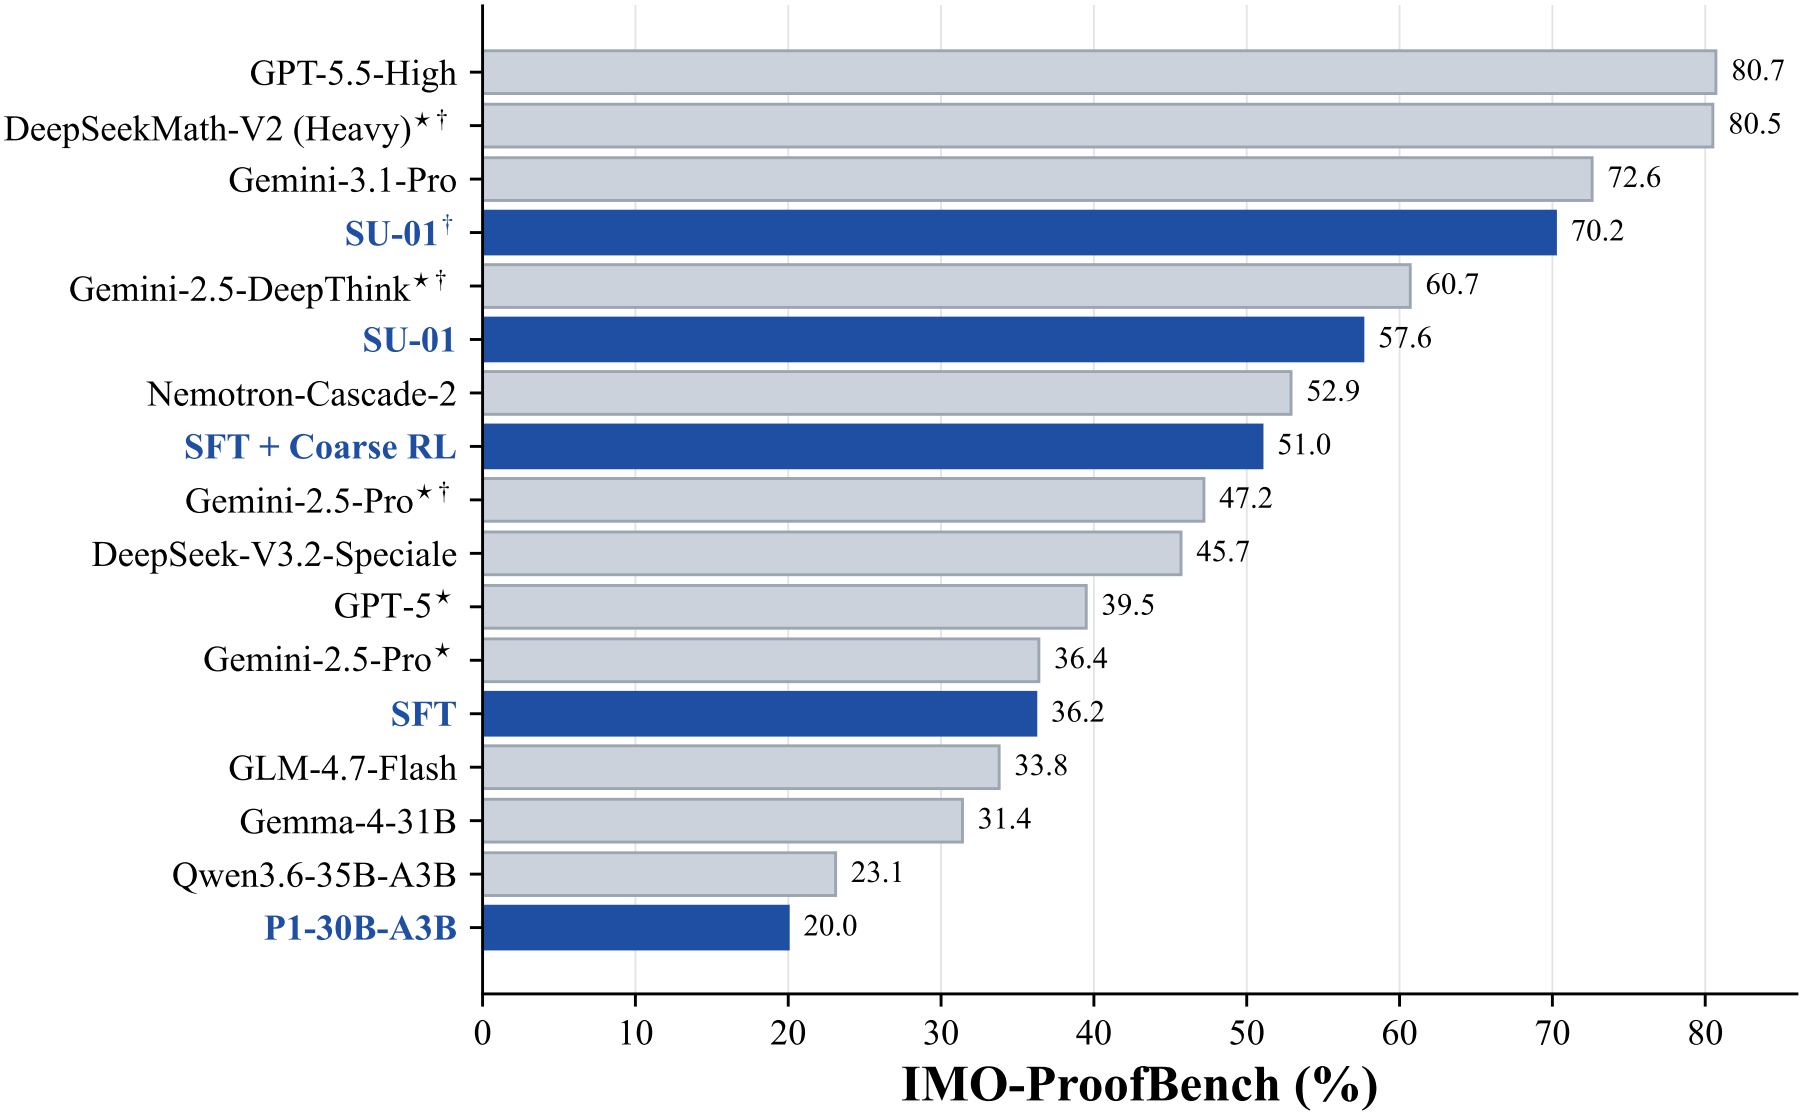
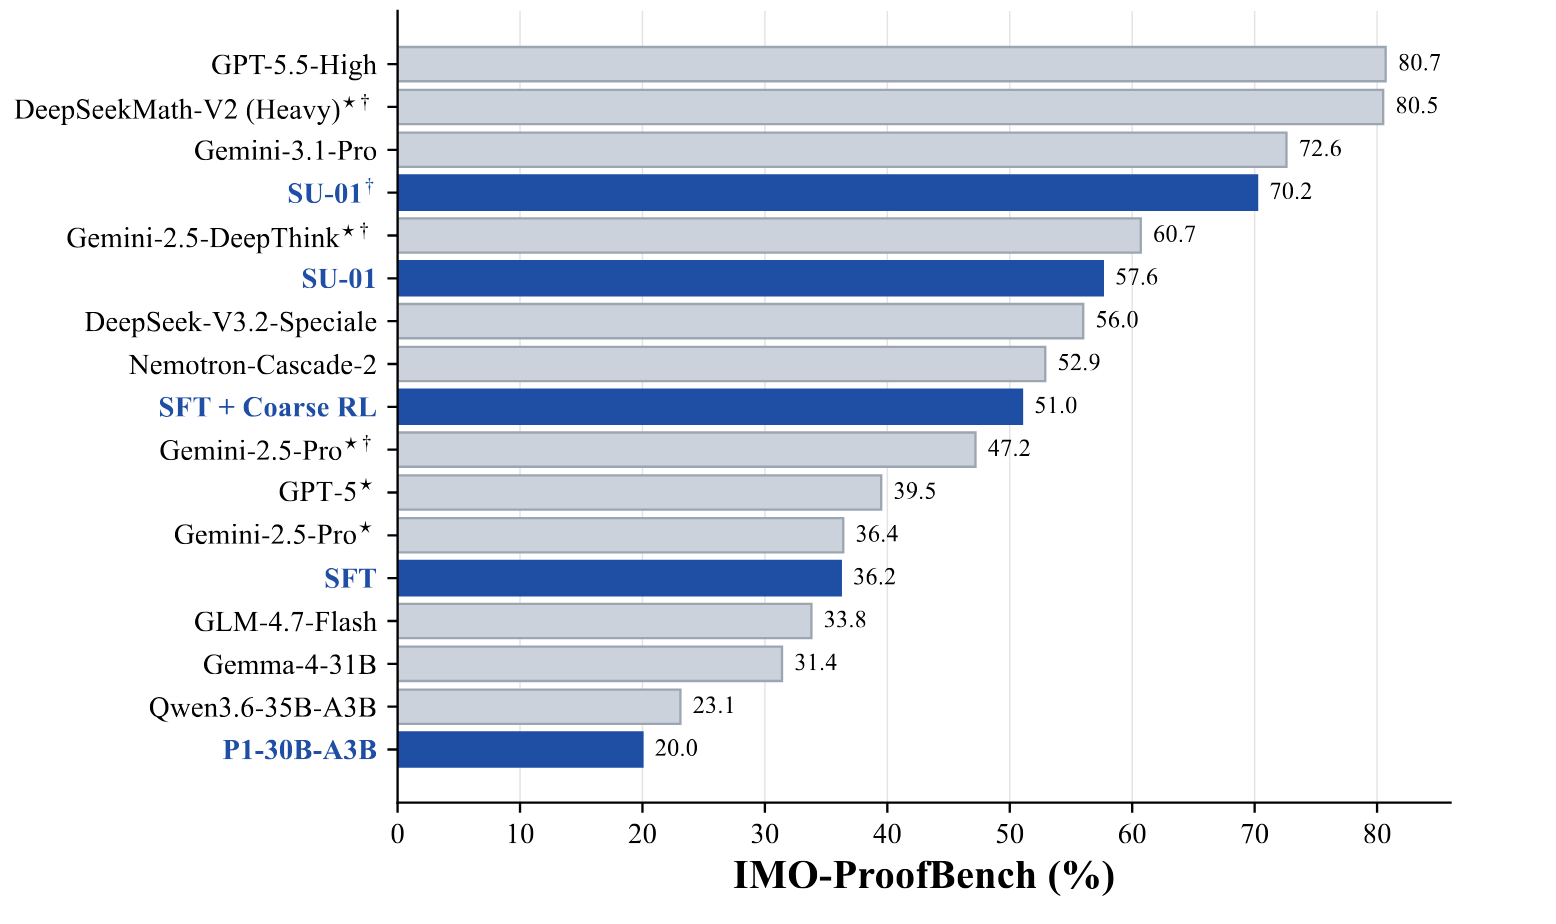
docs: update readme, fix data

Changed region(s): [[0.0, 0.0303, 0.9871, 1.0]]

diff --git a/page/source_html/proofbench.html b/page/source_html/proofbench.html
@@ -118,8 +118,8 @@
       { label: 'SU-01', value: 57.6, medals: 57.6, source: 'open' },
       { label: 'Nemotron-Cascade-2', value: 52.9, medals: 52.9, source: 'open' },
       { label: 'SFT + Coarse RL', value: 51.0, medals: 51.0, source: 'open' },
-      { label: 'Gemini-2.5-Pro', value: 47.1, medals: 47.1, source: 'closed', hasTTS: true },
-      { label: 'DeepSeek-V3.2-Speciale', value: 45.7, medals: 45.7, source: 'open' },
+      { label: 'Gemini-2.5-Pro', value: 47.2, medals: 47.1, source: 'closed', hasTTS: true },
+      { label: 'DeepSeek-V3.2-Speciale', value: 56.0, medals: 45.7, source: 'open' },
       { label: 'GPT-5', value: 39.5, medals: 39.5, source: 'closed', hasTTS: true },
       { label: 'Gemini-2.5-Pro', value: 36.4, medals: 36.4, source: 'closed' },
       { label: 'SFT', value: 36.2, medals: 36.2, source: 'open' },

diff --git a/page/index.html b/page/index.html
@@ -2043,7 +2043,7 @@
                     <img src="imgs/github-mark-white.png" alt="GitHub" class="huggingface-icon">
                     <span class="model-download-card-title">SU-01 Official Repo</span>
                 </a>
-                <a href="https://huggingface.co/Simplified-Reasoning/SU-01-30B-A3B" class="model-download-card" target="_blank" rel="noopener noreferrer">
+                <a href="https://huggingface.co/Simplified-Reasoning/SU-01" class="model-download-card" target="_blank" rel="noopener noreferrer">
                     <img src="imgs/hf-logo.png" alt="Hugging Face" class="huggingface-icon">
                     <span class="model-download-card-title">SU-01-30B-A3B</span>
                 </a>

diff --git a/README.md b/README.md
@@ -12,7 +12,7 @@
 [![Paper / Report](https://img.shields.io/badge/Paper%20%2F%20Report-A42C25?style=for-the-badge&logo=arxiv&logoColor=white)](<PAPER_OR_REPORT_URL>)
 [![Project Page](https://img.shields.io/badge/Project_Page-4285F4?style=for-the-badge&logo=googlechrome&logoColor=white)](https://simplified-reasoning.github.io/SU-01/)
 [![Github](https://img.shields.io/badge/SU--01-000000?style=for-the-badge&logo=github&logoColor=white)](https://github.com/Simplified-Reasoning/SU-01)
-[![Hugging Face Model](https://img.shields.io/badge/SU--01--30B--A3B-fcd022?style=for-the-badge&logo=huggingface&logoColor=000)](https://huggingface.co/Simplified-Reasoning/SU-01-30B-A3B)
+[![Hugging Face Model](https://img.shields.io/badge/SU--01-fcd022?style=for-the-badge&logo=huggingface&logoColor=000)](https://huggingface.co/Simplified-Reasoning/SU-01)
 
 </div>
 
@@ -40,7 +40,7 @@
 <a id="news"></a>
 # 📢 News
 
-- **[TODO]** Technical report will be available at [Paper / Report](<PAPER_OR_REPORT_URL>).
+<!-- - **[TODO]** Technical report will be available at [Paper / Report](<PAPER_OR_REPORT_URL>). -->
 - **[2026/05/13]** Project page is available at [https://simplified-reasoning.github.io/SU-01/](https://simplified-reasoning.github.io/SU-01/).
 - **[2026/05/13]** SU-01-30B-A3B model weights are available on [Hugging Face](https://huggingface.co/Simplified-Reasoning/SU-01-30B-A3B).
 
@@ -94,7 +94,7 @@ In competition-style evaluations, test-time scaling brings SU-01 to **35 points 
 
 | **Model** | **Hugging Face** | **Base / Backbone** | **Notes** |
 |-----------|-------------------|----------------------|-----------|
-| SU-01-30B-A3B | [Simplified-Reasoning/SU-01-30B-A3B](https://huggingface.co/Simplified-Reasoning/SU-01-30B-A3B) | 30B-A3B post-trained reasoning backbone | Final SU-01 release model trained with SFT, coarse RL, refined RL, and evaluated with optional TTS. |
+| SU-01 | [Simplified-Reasoning/SU](https://huggingface.co/Simplified-Reasoning/SU-01) | P1-30B-A3B backbone | Final SU-01 release model trained with SFT, coarse RL, refined RL, and evaluated with optional TTS. |
 
 ---
 
@@ -169,8 +169,6 @@ bash scripts/refined_rl.sh
 <a id="test-time-scaling"></a>
 # 🧪 Test-Time Scaling
 
-> **TODO:** Add TTS code path, launch commands, configuration files, and example outputs.
-
 SU-01 uses a model-internal verification-and-refinement loop:
 
 1. Generate an initial complete solution.
@@ -179,6 +177,8 @@ SU-01 uses a model-internal verification-and-refinement loop:
 4. Repeat until the solution is accepted or the refinement budget is exhausted.
 
 This expands the model's own natural-language proof-search computation rather than calling an external theorem prover, symbolic solver, or code executor. In the reported USAMO 2026 TTS traces, initial solution generations have a median length of approximately **106K tokens**, while refinement stages have a median length of approximately **83K tokens**.
+
+The released TTS implementation is in `su01-eval/decode`, including direct decoding, TTS decoding, batch decoding, and SGLang server helpers. See [`su01-eval/decode/README.md`](su01-eval/decode/README.md) for launch commands, input layout, decoding options, and smoke tests.
 
 <div align="center">
   <img src="page/source_png/tts_action_length_distribution_1.png" alt="Test-time scaling action length distribution" style="width: 70%; height: auto;">
@@ -189,7 +189,7 @@ This expands the model's own natural-language proof-search computation rather th
 <a id="evaluation"></a>
 # 📊 Evaluation
 
-> **TODO:** Add evaluation code path, launch commands, input format, and output format.
+Evaluation code is released under `su01-eval`. Use `su01-eval/decode` to generate direct or TTS predictions, and use `su01-eval/verifiable_bench` to score answer-verifiable benchmarks and FrontierScience Olympiad predictions. See [`su01-eval/decode/README.md`](su01-eval/decode/README.md) and [`su01-eval/verifiable_bench/README.md`](su01-eval/verifiable_bench/README.md) for commands, input formats, output formats, and configuration options.
 
 ## Table 1: Performance on Answer-Verifiable Reasoning Tasks
 
@@ -212,7 +212,7 @@ FrontierScience-Research refers to the research subset of FrontierScience. For S
 |-----------|---------------------:|------------------------:|-----------------------:|-----------------:|-------------------:|-----------------:|-----------------:|
 | Gemini 3.1 Pro Thinking | <u>95.2%</u> | <u>50.0%</u> | <u>72.6%</u> | 0.0% | <u>30.0%</u> | 10.0% | 13.3% |
 | GPT-5.5-High | **96.7%** | **64.8%** | **80.7%** | **25.0%** | **40.0%** | **45.0%** | **36.7%** |
-| DeepSeek-V3.2-Speciale | 62.9% | 28.6% | 45.7% | <u>10.0%</u> | 20.0% | <u>15.0%</u> | <u>15.0%</u> |
+| DeepSeek-V3.2-Speciale | 77.6% | 34.3% | 56.0% | <u>10.0%</u> | 20.0% | <u>15.0%</u> | <u>15.0%</u> |
 | P1-30B-A3B | 33.8% | 6.2% | 20.0% | 0.0% | **10.0%** | 0.0% | 3.3% |
 | GLM-4.7-Flash | 51.0% | 16.7% | 33.8% | 0.0% | 0.0% | 0.0% | 0.0% |
 | Nemotron-Cascade-2 | <u>77.1%</u> | 28.6% | 52.9% | <u>5.0%</u> | 5.0% | **20.0%** | <u>10.0%</u> |